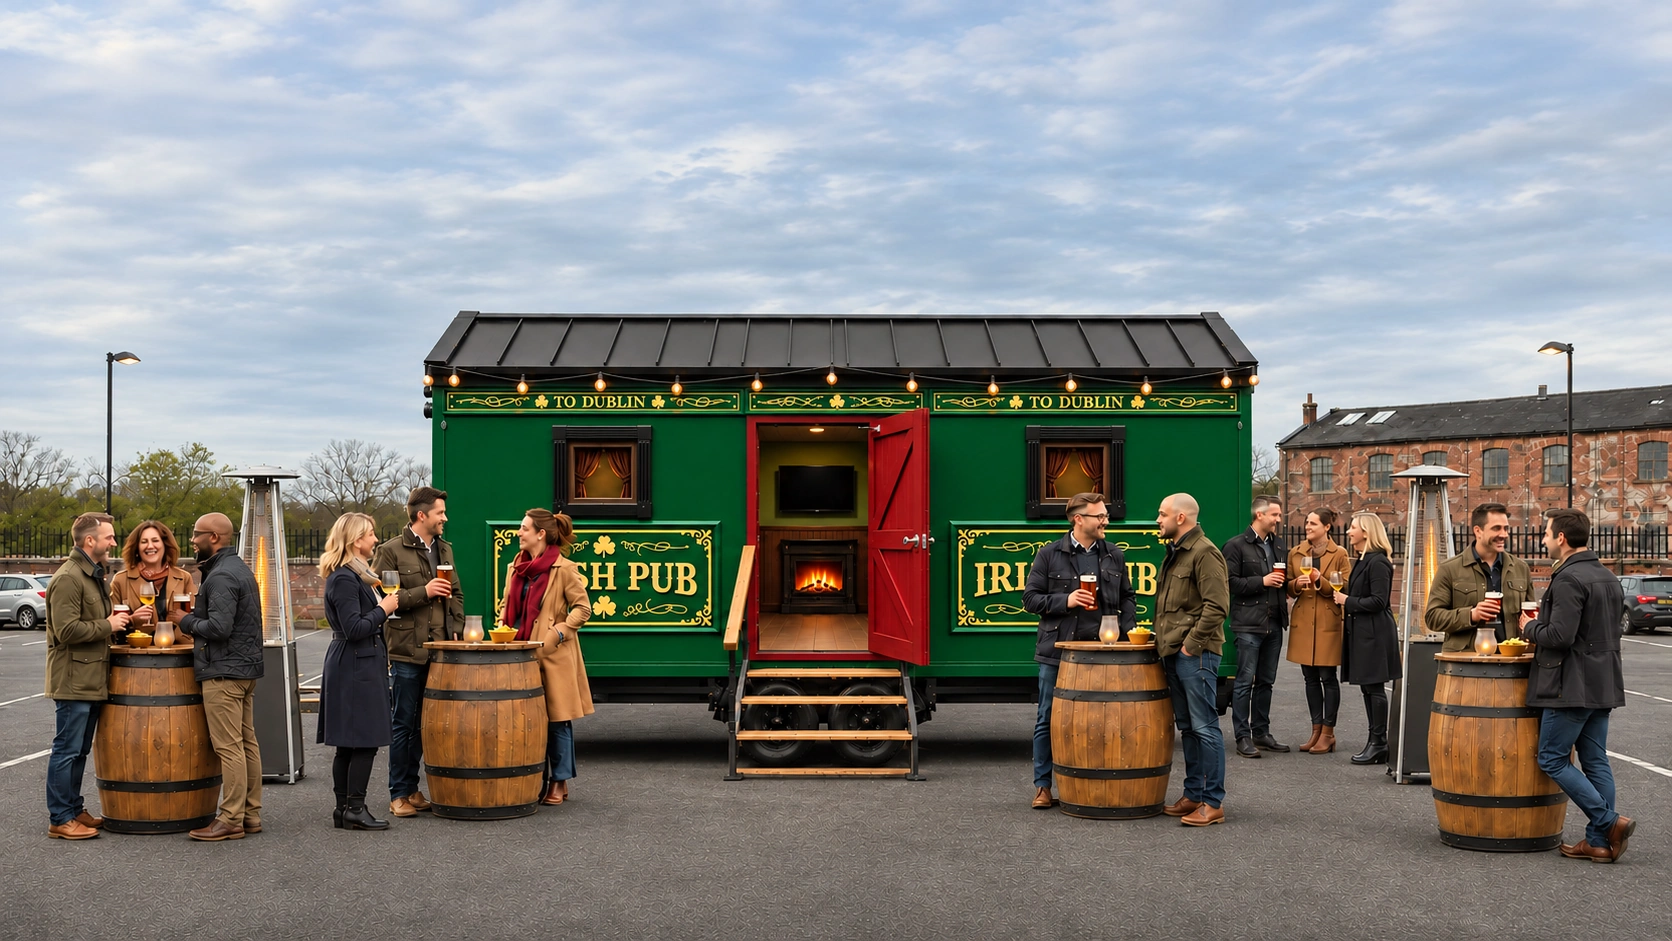
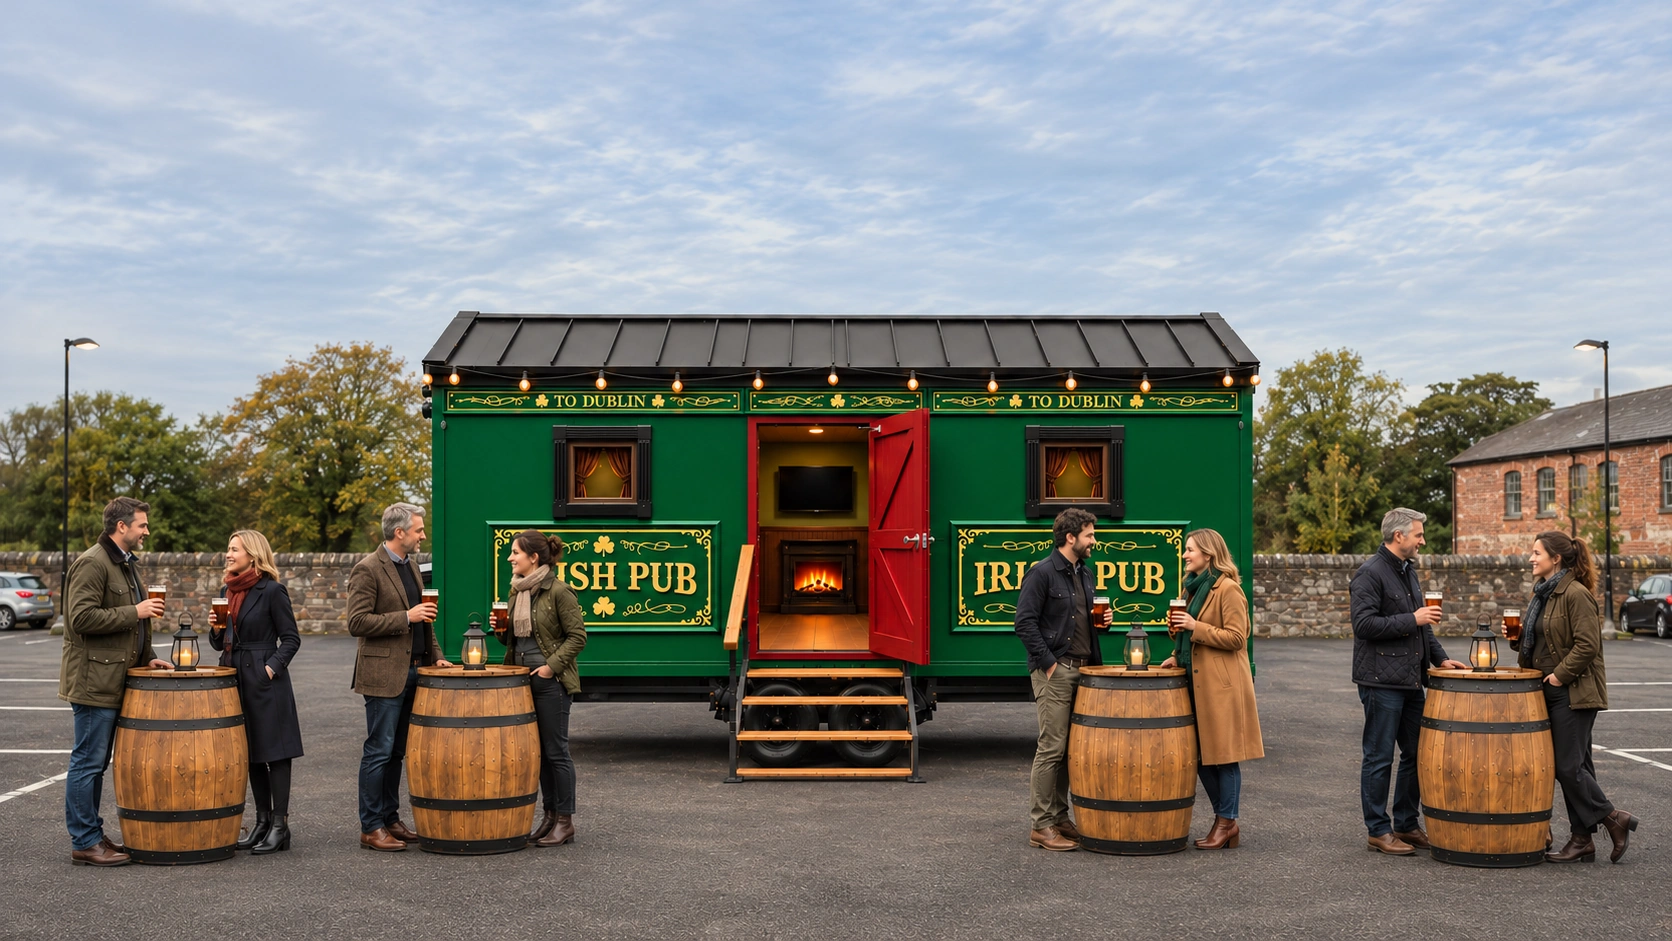
Rebuild hero photography and natural lighting

diff --git a/index.html b/index.html
@@ -22,13 +22,13 @@
   <link rel="stylesheet" href="legal.css?v=1">
   <link rel="stylesheet" href="yandex-inquiry.css?v=1">
   <link rel="stylesheet" href="unified.css?v=lighting-quality-6">
-  <meta property="og:image" content="https://qwebdog.github.io/tdpub/social-preview.jpg?v=lighting-quality-1">
-  <meta property="og:image:secure_url" content="https://qwebdog.github.io/tdpub/social-preview.jpg?v=lighting-quality-1">
+  <meta property="og:image" content="https://qwebdog.github.io/tdpub/social-preview.jpg?v=hero-rebuild-1">
+  <meta property="og:image:secure_url" content="https://qwebdog.github.io/tdpub/social-preview.jpg?v=hero-rebuild-1">
   <meta property="og:image:type" content="image/jpeg">
   <meta property="og:image:width" content="1672">
   <meta property="og:image:height" content="941">
   <meta property="og:image:alt" content="Мобильный ирландский паб to Dublin на вечернем мероприятии">
-  <meta name="twitter:image" content="https://qwebdog.github.io/tdpub/social-preview.jpg?v=lighting-quality-1">
+  <meta name="twitter:image" content="https://qwebdog.github.io/tdpub/social-preview.jpg?v=hero-rebuild-1">
   <meta name="twitter:image:alt" content="Мобильный ирландский паб to Dublin на вечернем мероприятии">
   <link rel="icon" href="favicon.ico" sizes="any">
   <link rel="icon" type="image/png" sizes="32x32" href="favicon-32.png">
@@ -51,16 +51,16 @@
   <section class="experience" id="experience" aria-labelledby="brandTitle">
     <div class="scenes" aria-hidden="true">
       <div class="time-scene is-active" data-scene="morning" aria-hidden="false">
-        <picture><source media="(max-width: 700px)" srcset="courtyard-morning-busy-mobile.webp?v=lighting-quality-1"><img class="scene-photo" src="courtyard-morning-busy.webp?v=lighting-quality-1" alt="" fetchpriority="high" draggable="false"></picture>
+        <picture><source media="(max-width: 700px)" srcset="courtyard-morning-busy-mobile.webp?v=hero-rebuild-1"><img class="scene-photo" src="courtyard-morning-busy.webp?v=hero-rebuild-1" alt="" fetchpriority="high" draggable="false"></picture>
       </div>
       <div class="time-scene" data-scene="day" aria-hidden="true">
-        <picture><source media="(max-width: 700px)" data-srcset="courtyard-day-busy-mobile.webp?v=lighting-quality-1"><img class="scene-photo" data-src="courtyard-day-busy.webp?v=lighting-quality-1" alt="" decoding="async" draggable="false"></picture>
+        <picture><source media="(max-width: 700px)" data-srcset="courtyard-day-busy-mobile.webp?v=hero-rebuild-1"><img class="scene-photo" data-src="courtyard-day-busy.webp?v=hero-rebuild-1" alt="" decoding="async" draggable="false"></picture>
       </div>
       <div class="time-scene" data-scene="sunset" aria-hidden="true">
-        <picture><source media="(max-width: 700px)" data-srcset="courtyard-sunset-busy-mobile.webp?v=lighting-quality-1"><img class="scene-photo" data-src="courtyard-sunset-busy.webp?v=lighting-quality-1" alt="" decoding="async" draggable="false"></picture>
+        <picture><source media="(max-width: 700px)" data-srcset="courtyard-sunset-busy-mobile.webp?v=hero-rebuild-1"><img class="scene-photo" data-src="courtyard-sunset-busy.webp?v=hero-rebuild-1" alt="" decoding="async" draggable="false"></picture>
       </div>
       <div class="time-scene" data-scene="night" aria-hidden="true">
-        <picture><source media="(max-width: 700px)" data-srcset="courtyard-night-busy-mobile.webp?v=lighting-quality-1"><img class="scene-photo" data-src="courtyard-night-busy.webp?v=lighting-quality-1" alt="" decoding="async" draggable="false"></picture>
+        <picture><source media="(max-width: 700px)" data-srcset="courtyard-night-busy-mobile.webp?v=hero-rebuild-1"><img class="scene-photo" data-src="courtyard-night-busy.webp?v=hero-rebuild-1" alt="" decoding="async" draggable="false"></picture>
       </div>
     </div>
     <div class="scene-shade" aria-hidden="true"></div>
@@ -90,7 +90,7 @@
       <div class="service-intro-heading">
         <h2 id="serviceTitle">Мобильный ирландский паб</h2>
       </div>
-      <video class="service-photo service-video" data-src="media/pub-atmosphere.mp4" width="1280" height="720" data-poster="courtyard-night-busy.webp?v=lighting-quality-1" autoplay muted loop playsinline controls preload="none" aria-label="Видео о мобильном пабе to Dublin"></video>
+      <video class="service-photo service-video" data-src="media/pub-atmosphere.mp4" width="1280" height="720" data-poster="courtyard-night-busy.webp?v=hero-rebuild-1" autoplay muted loop playsinline controls preload="none" aria-label="Видео о мобильном пабе to Dublin"></video>
       <div class="service-intro-copy">
         <p class="service-lead">Ваше событие — <span>с ирландским характером.</span></p>
         <p class="service-intro-description">Привезём to Dublin на вашу площадку: фургон, оборудование, команду и напитки. Всё для работы паба — под ключ.</p>

diff --git a/configure-seo.py b/configure-seo.py
@@ -17,7 +17,7 @@ for name,path in [('index.html','')]:
  page=root/name;s=page.read_text()
  s=re.sub(r'\s*<link rel="canonical"[^>]*>','',s)
  s=re.sub(r'\s*<meta (?:property|name)="(?:og:url|og:image(?::(?:alt|type|width|height|secure_url))?|twitter:image(?::alt)?)"[^>]*>','',s)
- image=base+'social-preview.jpg?v=lighting-quality-1'
+ image=base+'social-preview.jpg?v=hero-rebuild-1'
  tags=f'''  <link rel="canonical" href="{escape(base+path,quote=True)}">
   <meta property="og:url" content="{escape(base+path,quote=True)}">
   <meta property="og:image" content="{escape(image,quote=True)}">

diff --git a/MEDIA.md b/MEDIA.md
@@ -12,11 +12,13 @@
 
 ## Геометрия и качество сцен
 
-Все четыре фазы используют одну нейтральную фотографию для каждого формата: 1019×1544 на телефоне и 1672×941 на широком экране. Исходники `pub-neutral-mobile.webp` и `pub-neutral-desktop.webp` сохранены без потерь из отретушированных PNG. Дневная сцена показывает нейтральный исходник; утро, закат и ночь меняют только освещение и небо. Новые солнечные тени и оранжевые пятна ночью не добавляются. Вход, вывески, люди и четыре бочки сохраняют одинаковые координаты между фазами.
+Главный экран пересобран по последнему студийному рендеру: зелёный фургон, чёрная крыша и рамы, коричневые шторы, красная дверь и золотые вывески. Четыре бочки сохраняют прежнее расположение группами слева и справа; восемь новых гостей общаются парами, проход к входу свободен. Окружение — асфальтированная парковочная площадка с деревьями и кирпичной стеной. Пирамидальные обогреватели убраны.
+
+Все четыре фазы используют одну нейтральную фотографию для каждого формата: 1021×1540 на телефоне и 1672×941 на широком экране. Исходники `pub-neutral-mobile.webp` и `pub-neutral-desktop.webp` сохранены без потерь из новых PNG. Дневная сцена показывает нейтральный исходник; утро, закат и ночь меняют только освещение и цвет того же облачного неба. Вход, вывески, люди и четыре бочки сохраняют одинаковые координаты между фазами.
 
 Генератор `python scripts/build-mobile-scenes.py` (Python, Pillow, resvg-py) создаёт редактируемые SVG-композиции и готовые WebP с качеством 96. Сайт загружает WebP на всех экранах: без расчёта SVG-фильтров в браузере и без повторного сжатия исходника с качеством 88. SVG-композиции исключены из полного архива как неиспользуемые браузером. Для размещения сборка не требуется.
 
-Ночное освещение строится из холодного общего света и мягкого локального света гирлянды, окон, камина, обогревателей и столиков. Чёрная точка сохраняется: телевизор и рамы не становятся серыми. Маска неба использует синий канал только в узкой полосе листвы и сохраняет зелёные ветви. Приближение и параллакс отключены для обоих форматов; сайт не растягивает исходники в SVG. Затемнение страницы ослаблено и имеет нейтральный оттенок.
+Ночное освещение строится из холодного общего света и мягкого локального света настоящих источников в кадре: ламп под крышей, окон, камина, фонарей и свечей на столиках. Фон ночью затемняется плавно, без вырезания листвы: ветви и края крыш сохраняют естественный контур. Крупные дневные пятна на людях, искусственные огненные столбы и равномерная подсветка всей вывески удалены. Чёрная точка сохраняется: телевизор и рамы не становятся серыми. Границы неба для заката и координаты источников описаны в `scripts/scene-profiles.json`. Приближение и параллакс отключены для обоих форматов. Затемнение страницы имеет лёгкий нейтральный оттенок.
 
 ## Видео
 
